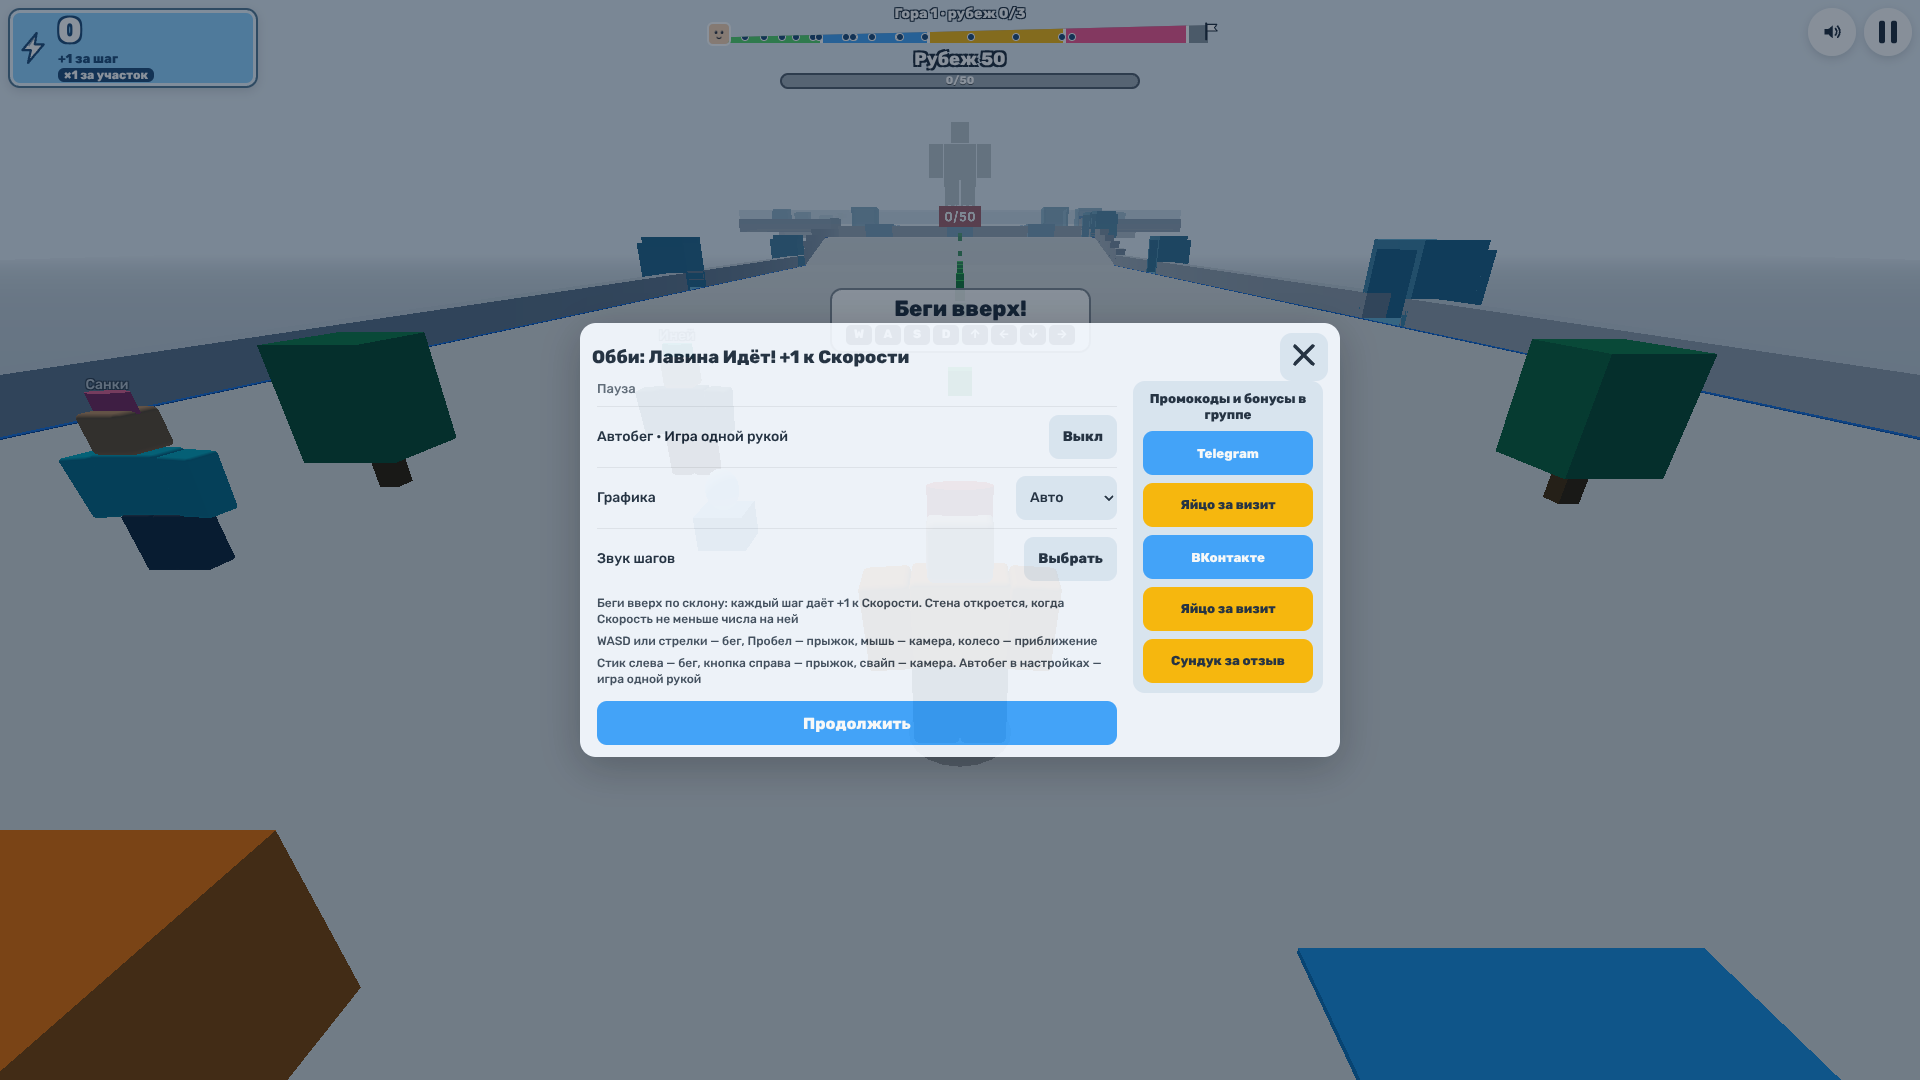
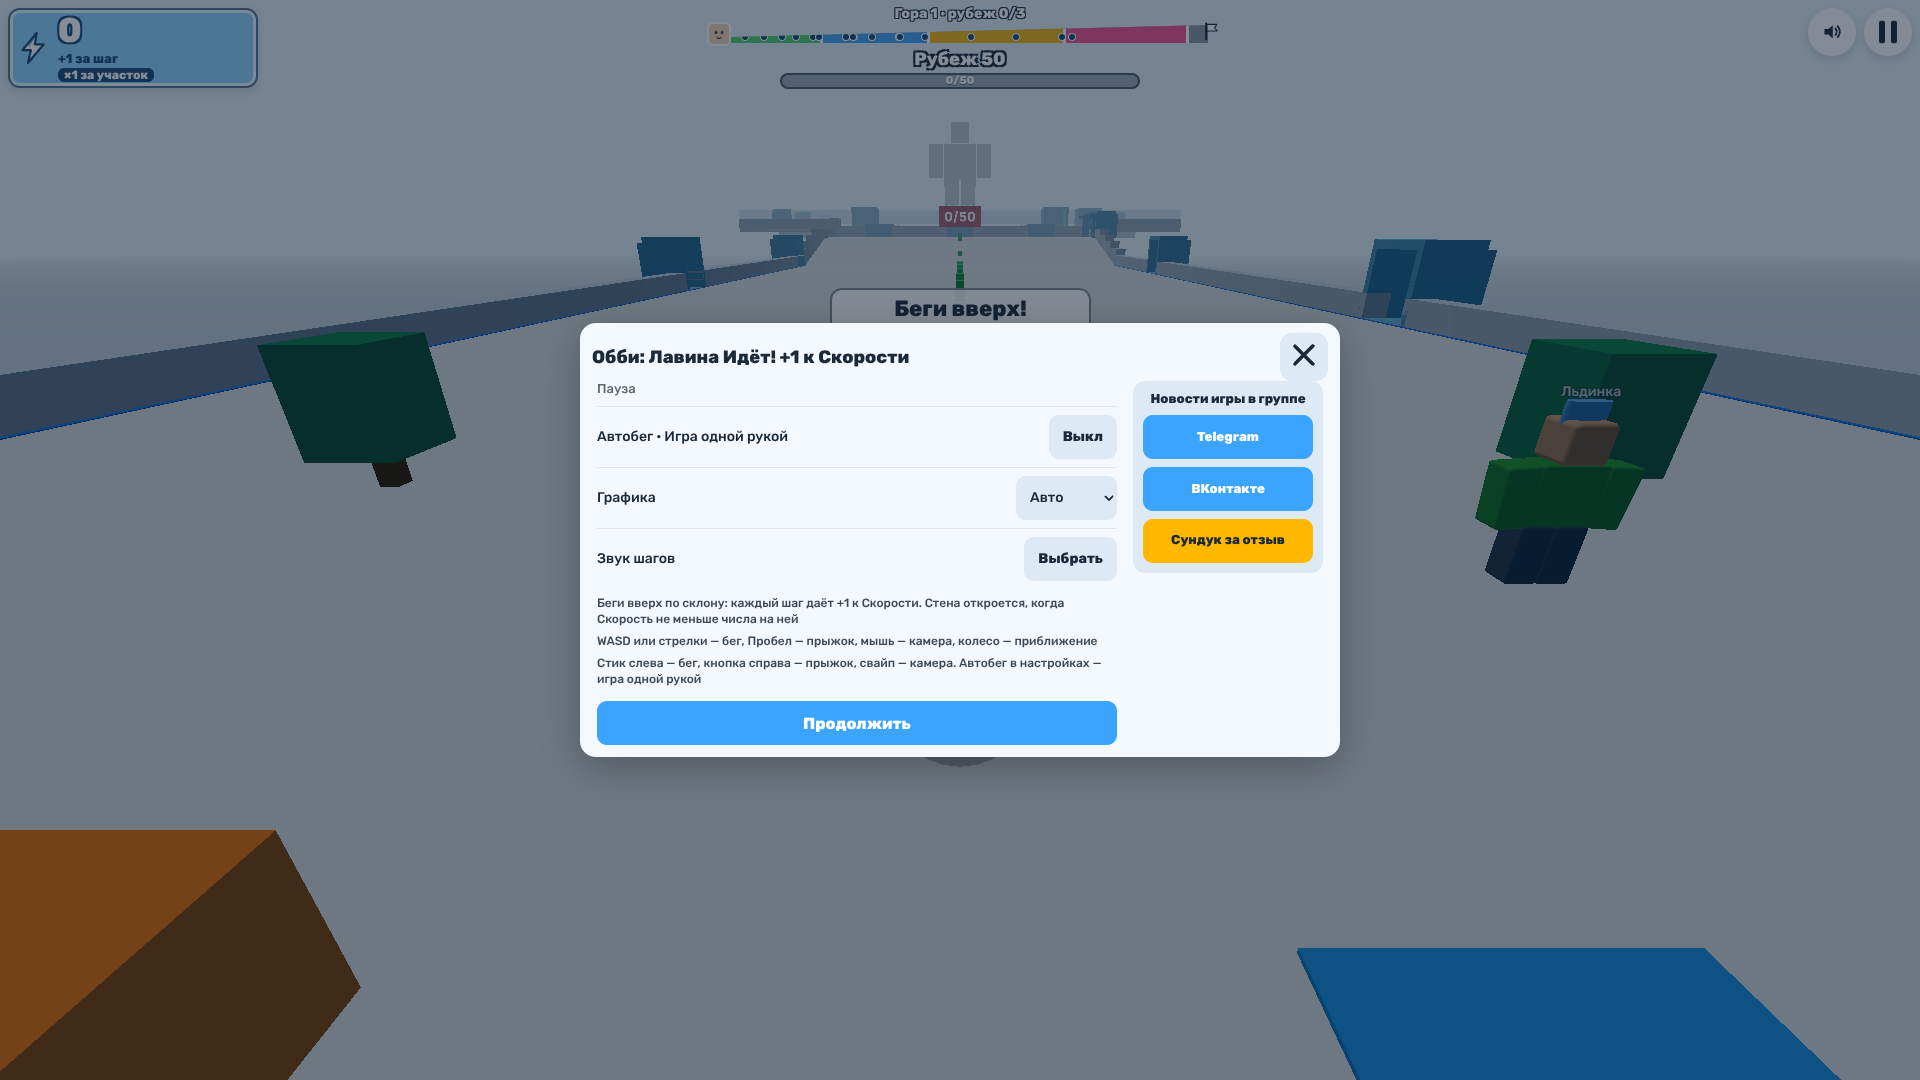
G-05: подпись группы в проверке паузы
Claude-Session: https://claude.ai/code/session_019MHNGwAHdvTQGoigAXgW5m

Changed region(s): [[0.5625, 0.3667, 0.6875, 0.6417], [0.75, 0.3361, 0.875, 0.55], [0.0312, 0.3361, 0.125, 0.55]]

diff --git a/e2e/fm-community.spec.ts b/e2e/fm-community.spec.ts
@@ -28,7 +28,7 @@ test('the channels by the side of the pause window: each opens its address in a 
   await openGame('pace=open');
   const before = await testState(page);
   await page.locator('[data-hud="pause"]').click();
-  await expect(page.locator('[data-role="community"] .pause-side-cap')).toHaveText('Промокоды и бонусы в группе');
+  await expect(page.locator('[data-role="community"] .pause-side-cap')).toHaveText('Новости игры в группе');
   await expect(page.locator('[data-hud="community-telegram"]')).toHaveText('Telegram');
   await expect(page.locator('[data-hud="community-vk"]')).toHaveText('ВКонтакте');
   // Beside the settings on a wide screen: the block to the right of the column, not under it.
